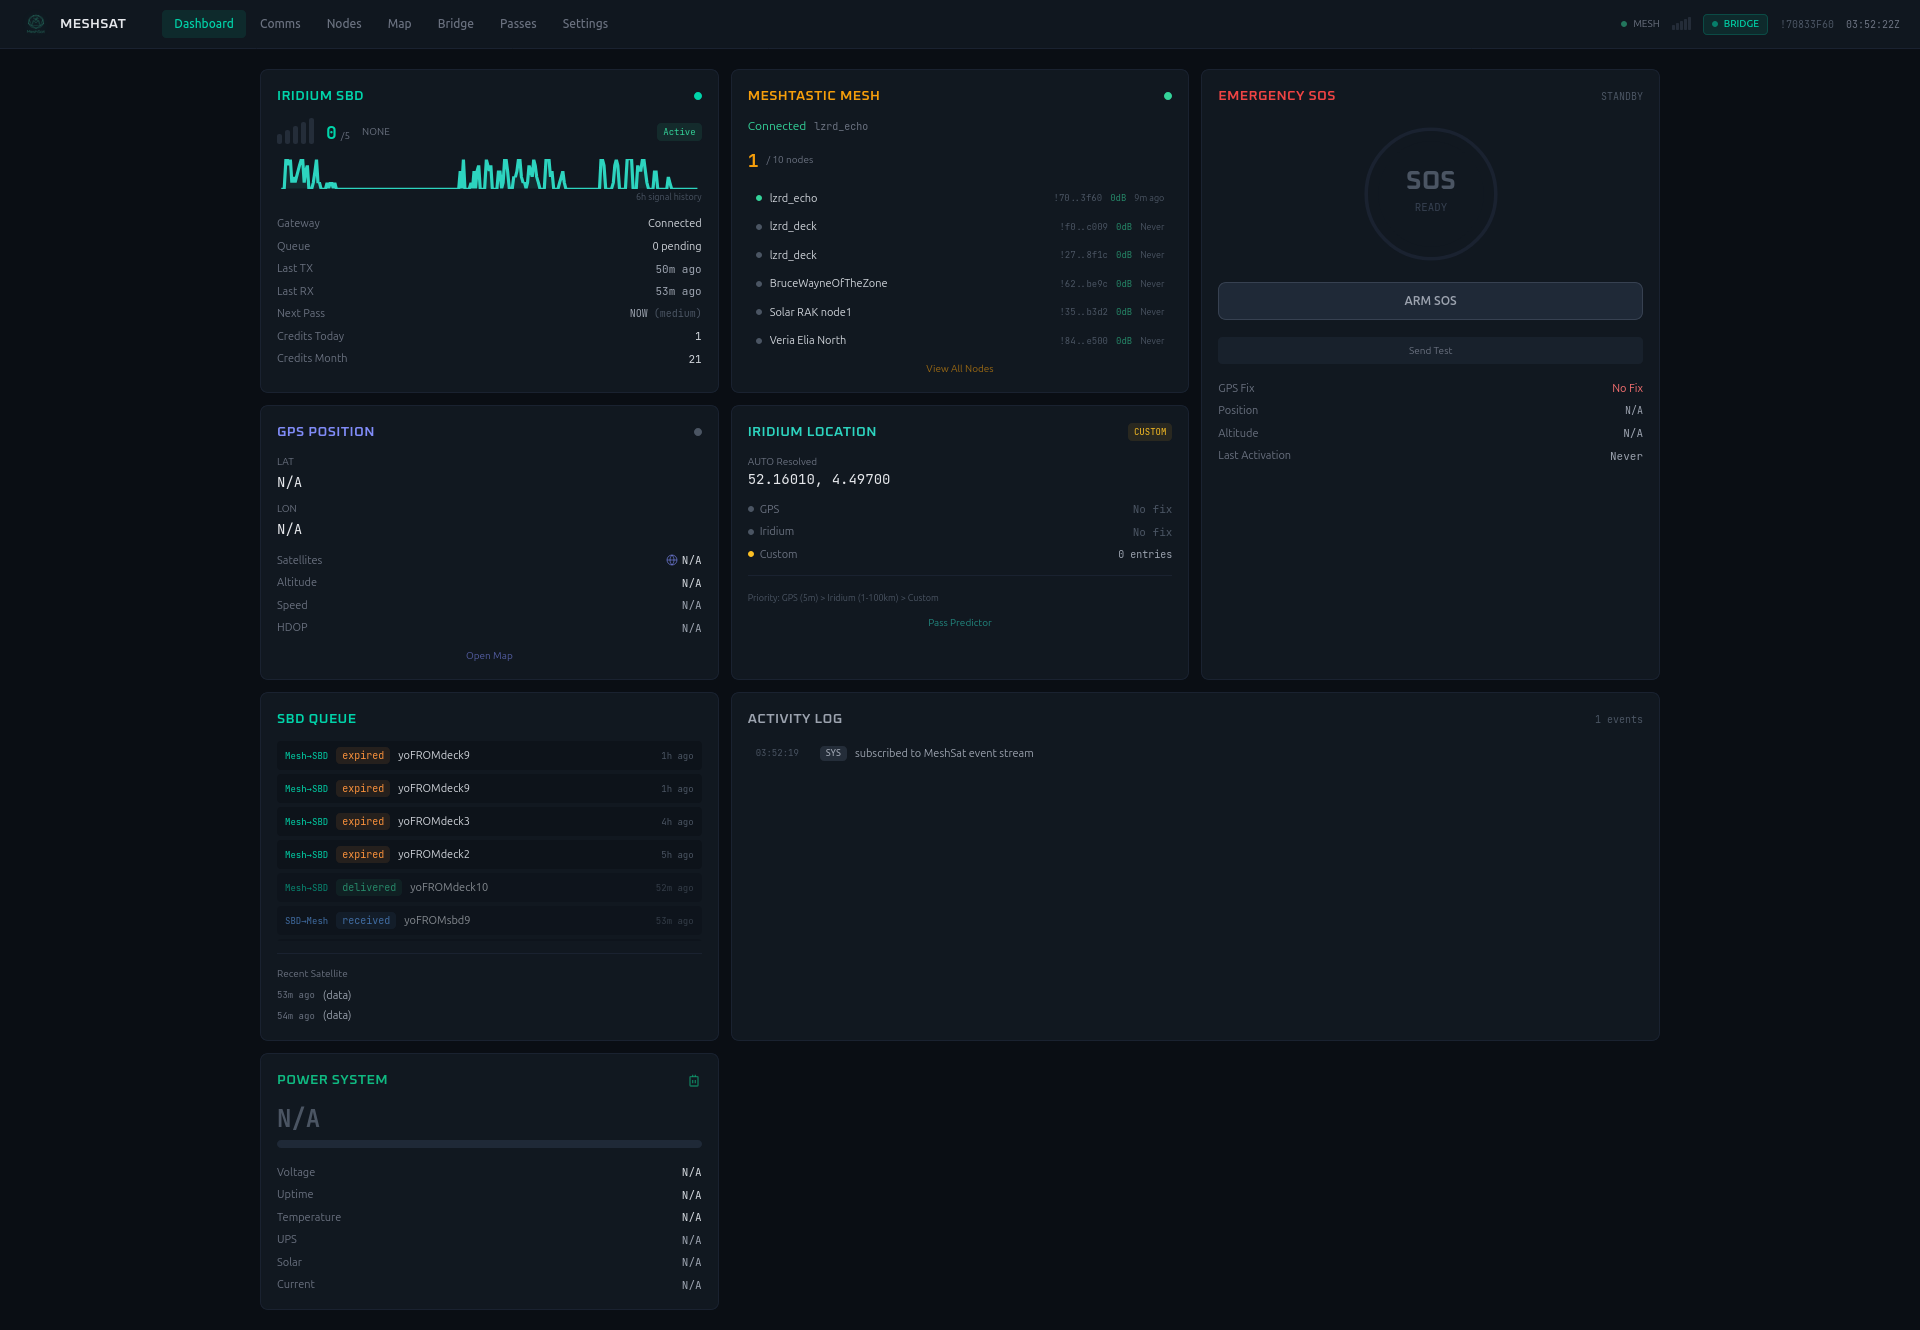
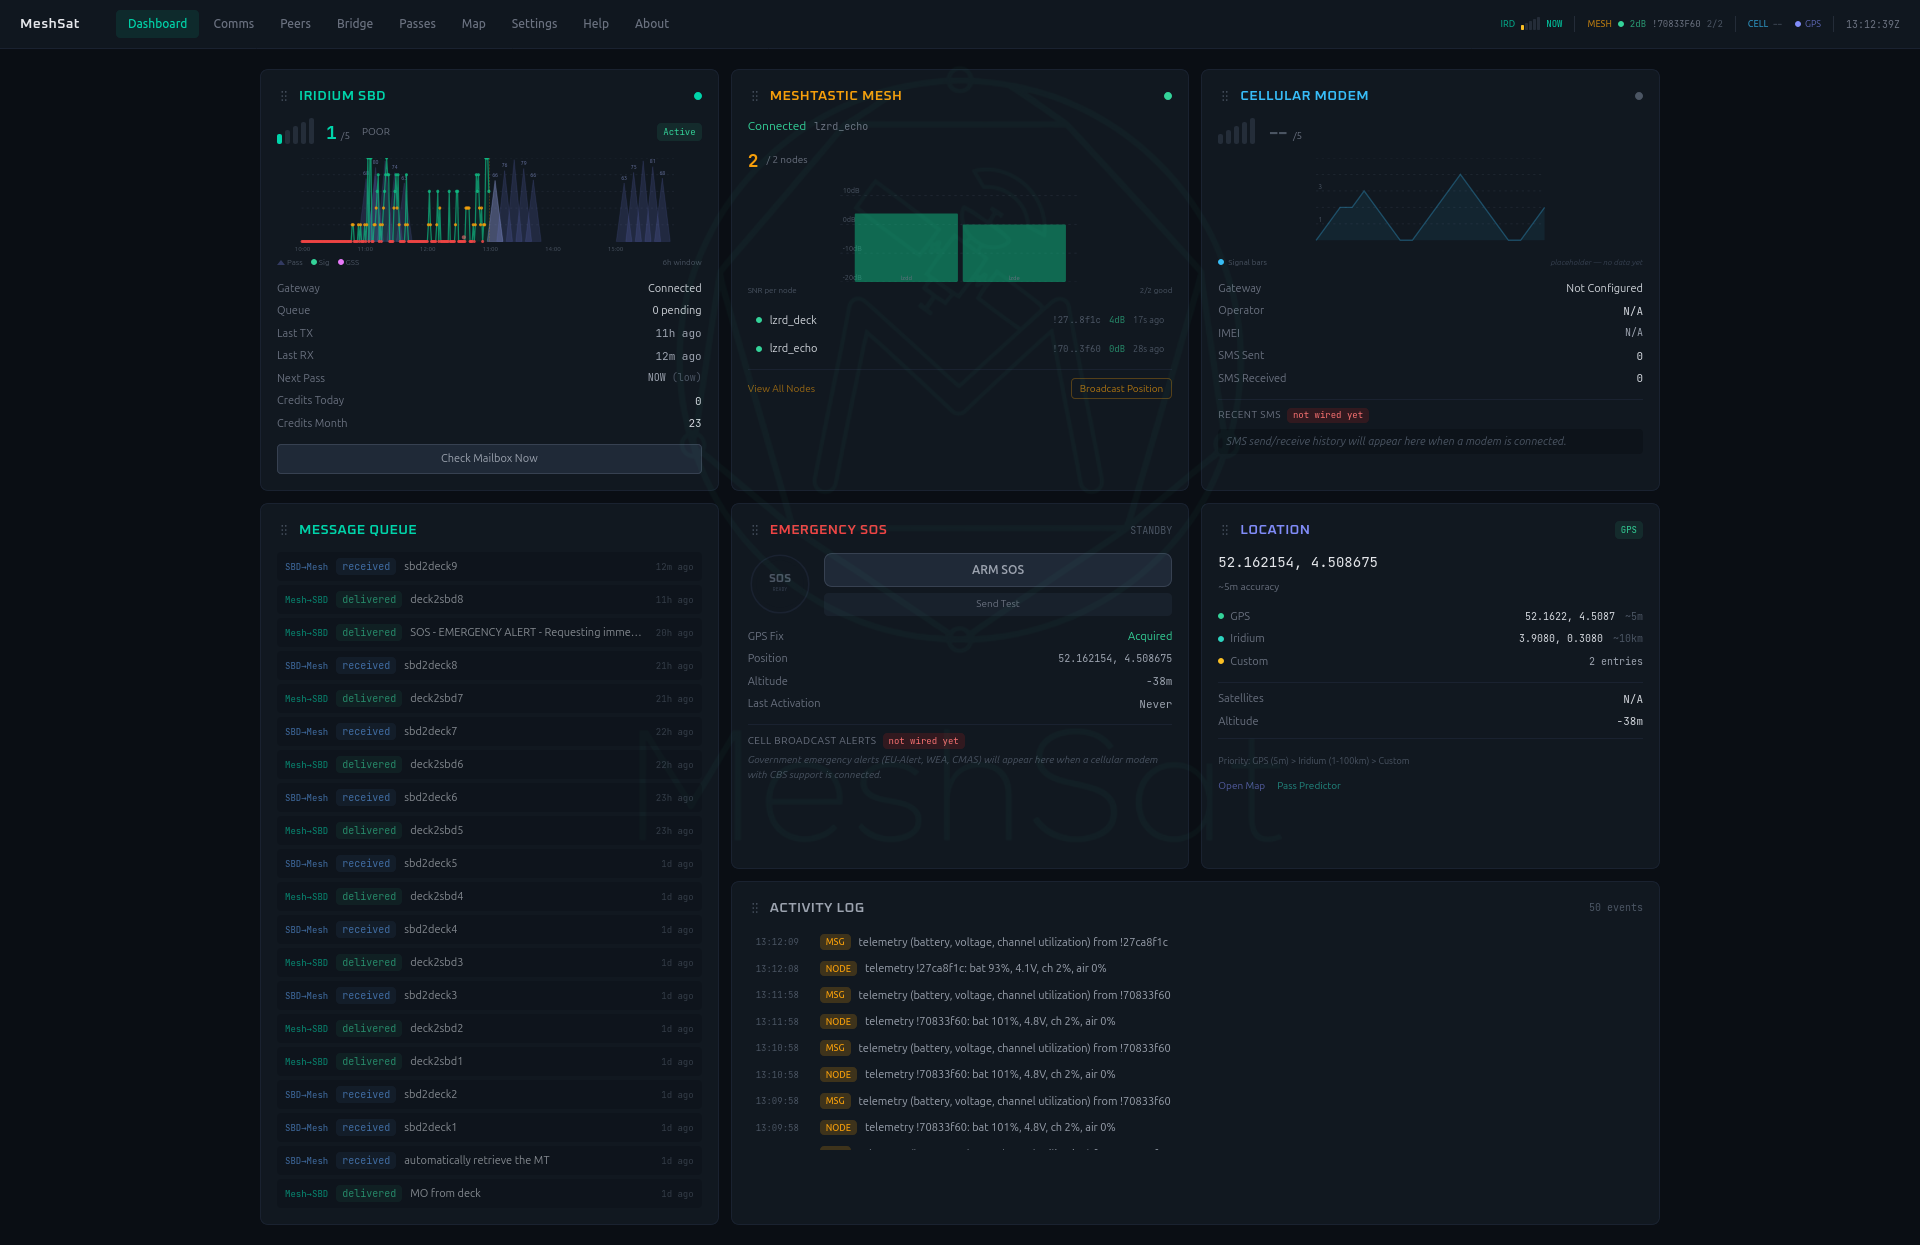
docs: rewrite README + update dashboard screenshot [CUBEOS-35]
Full README rewrite reflecting current architecture: badges, deployment
modes table, expanded hardware support matrix, all channels (Iridium,
Astrocast, cellular, MQTT, webhook), updated API table (130+ endpoints),
N-channel architecture diagram, configuration additions, roadmap
(v0.1.x/v0.2.0/v0.3.0), and community section. Corrected license
reference to GPLv3. Replaced dashboard screenshot with v0.2.0 capture.

diff --git a/README.md b/README.md
@@ -1,8 +1,13 @@
 # MeshSat
 
-A gateway that bridges Meshtastic mesh radios and Iridium SBD satellite modems. Send messages between off-grid mesh networks and global satellite coverage from a single box.
+[![Pipeline](https://gitlab.nuclearlighters.net/products/cubeos/meshsat/badges/main/pipeline.svg)](https://gitlab.nuclearlighters.net/products/cubeos/meshsat/-/pipelines)
+![Go 1.24+](https://img.shields.io/badge/go-1.24+-blue)
+[![License: GPL v3](https://img.shields.io/badge/license-GPLv3-green)](LICENSE)
+![Docker: ghcr.io/cubeos-app/meshsat](https://img.shields.io/badge/docker-ghcr.io%2Fcubeos--app%2Fmeshsat-blue)
 
-MeshSat runs as a standalone Docker container on any Linux machine with USB-connected devices. No cloud dependencies, no subscriptions beyond your Iridium SBD plan.
+MeshSat bridges Meshtastic mesh networks to multiple satellite and data channels from a single gateway. Iridium SBD, Astrocast LEO, cellular SMS, MQTT, and webhooks are all available as routing destinations. The bridge rules engine routes messages between any source and any destination without requiring code changes.
+
+MeshSat runs as a standalone Docker container on any Linux machine with USB-connected devices. No cloud dependencies, no subscriptions beyond your satellite or cellular plan.
 
 ## Dashboard
 
@@ -11,18 +16,31 @@ MeshSat runs as a standalone Docker container on any Linux machine with USB-conn
 SBD message queue, and GPS/satellite positioning*
 
 ![MeshSat Pass Predictor](docs/images/meshsat_passes.png)
-*Iridium satellite pass predictor with signal correlation —
+*Satellite pass predictor with signal correlation --
 optimizes transmission timing in obstructed environments*
 
 ## What It Does
 
-- Bridges Meshtastic mesh radio and Iridium satellite into a single message bus
-- Routes messages between devices using configurable bridge rules (mesh-to-satellite, satellite-to-mesh, or both)
+- Bridges Meshtastic mesh radio to multiple satellite and data channels via configurable bridge rules
+- Routes messages using a rules engine that supports any-to-any source/destination combinations
 - Auto-detects USB devices on startup (no manual port configuration needed)
 - Stores all messages, telemetry, GPS positions, and signal data in a local SQLite database
 - Provides a built-in web dashboard for monitoring, sending messages, and managing devices
-- Exposes a REST API for integration with other systems
-- Runs on ARM64 (Raspberry Pi, Pine64) and x86_64 (Intel NUC, any PC)
+- Predicts satellite passes using SGP4/TLE propagation and schedules transmissions around optimal windows
+- Manages a delivery queue with channel-specific retry and backoff (ISU-aware for Iridium)
+- Exposes a REST API with 130+ endpoints for integration with other systems
+- Runs on ARM64 (Raspberry Pi, BPI-M4 Zero) and x86_64 (Intel NUC, any PC)
+
+## Deployment Modes
+
+| | Standalone mode | CubeOS mode |
+|---|---|---|
+| Set via | `MESHSAT_MODE=direct` | `MESHSAT_MODE=cubeos` (default) |
+| Serial access | Direct to /dev/ttyACM0, /dev/ttyUSB0 | Via HAL REST API |
+| Deploy with | `docker-compose.standalone.yml` | CubeOS orchestrator |
+| Who it's for | Any Linux machine | CubeOS installations |
+
+This README covers standalone mode. For CubeOS mode, see [CubeOS docs](https://cubeos.app).
 
 ## Hardware
 
@@ -30,19 +48,21 @@ optimizes transmission timing in obstructed environments*
 *Lilygo T-Echo (Meshtastic) connected to the MeshSat host with USB GPS dongle*
 
 ![MeshSat Lab - RockBLOCK 9603 satellite modem](docs/images/meshsat_lab_02.jpg)
-*RockBLOCK 9603 Iridium modem with patch antenna — needs sky view for satellite access*
+*RockBLOCK 9603 Iridium modem with patch antenna -- needs sky view for satellite access*
 
-### Tested Devices
+### Supported Devices
 
-The following hardware has been verified end-to-end (satellite to mesh and back):
-
-| Device | Role | Interface | Notes |
-|--------|------|-----------|-------|
-| Lilygo T-Echo (nRF52840) | Meshtastic radio | `/dev/ttyACM0` | 915 MHz, USB-C |
-| Iridium 9600 SBD Transceiver | Satellite modem | `/dev/ttyUSB0` | RS-232 via USB adapter, 19200 baud |
-| Raspberry Pi 5 | Host | — | ARM64, 4 GB RAM, Debian Bookworm |
-
-Other Meshtastic devices should work out of the box. MeshSat recognizes the standard Meshtastic USB vendor/product IDs (Espressif, CH340, CP2102, Nordic, Adafruit). If your device is not detected, you can pin the port manually with `MESHSAT_MESHTASTIC_PORT`.
+| Category | Device | Status | Notes |
+|----------|--------|--------|-------|
+| Meshtastic | Lilygo T-Echo (nRF52840) | Tested | 915 MHz, USB-C, end-to-end verified |
+| Meshtastic | Espressif / CH340 / CP2102 / Nordic devices | Should work | Auto-detected via USB VID:PID |
+| Satellite | RockBLOCK 9603 (Iridium 9603N) | Tested | RS-232 via USB adapter, 19200 baud |
+| Satellite | Astrocast Astronode S | In Progress | Code complete, awaiting hardware for testing |
+| Cellular | SIM7600G-H | In Progress | AT command driver complete, signal testing pending |
+| Host | Raspberry Pi 5 | Tested | ARM64, 4 GB RAM, Debian Bookworm |
+| Host | Raspberry Pi 4 | Should work | Same platform as Pi 5 |
+| Host | BPI-M4 Zero | Planned | Armbian base, pending hardware verification |
+| Host | Any x86_64 / ARM64 Linux | Should work | Docker + USB serial required |
 
 ## Quick Start
 
@@ -151,26 +171,26 @@ INF server started port=6050
 
 Navigate to `http://<your-ip>:6050` in any browser. The dashboard shows:
 
-- **Messages** — live message feed from all connected devices
-- **Nodes** — mesh network nodes with signal quality and last-heard times
-- **Map** — node positions on a Leaflet map (if GPS data is available)
-- **Telemetry** — battery voltage, temperature, and other device metrics
-- **Config** — radio settings, gateway configuration, and bridge rules
+- **Messages** -- live message feed from all connected devices
+- **Nodes** -- mesh network nodes with signal quality and last-heard times
+- **Map** -- node positions on a Leaflet map (if GPS data is available)
+- **Telemetry** -- battery voltage, temperature, and other device metrics
+- **Config** -- radio settings, gateway configuration, and bridge rules
 
 ### Step 4: Set up bridge rules
 
-To route messages between Meshtastic and Iridium, create bridge rules in the Config tab. A bridge rule specifies:
+To route messages between channels, create bridge rules in the Config tab. Rules are direction-aware (outbound mesh-to-satellite, inbound satellite-to-mesh, or both) and the rules engine is the single authority for all forwarding decisions. A bridge rule specifies:
 
-- **Source gateway** — where messages come from (e.g., `meshtastic`)
-- **Destination gateway** — where messages go (e.g., `iridium`)
-- **Direction** — outbound (mesh to satellite), inbound (satellite to mesh), or both
-- **Filter** — optional: match specific channels, node IDs, or message types
+- **Source gateway** -- where messages come from (e.g., `meshtastic`)
+- **Destination gateway** -- where messages go (e.g., `iridium`)
+- **Direction** -- outbound, inbound, or both
+- **Filter** -- optional: match specific channels, node IDs, or message types
 
 Example: to forward all text messages from a specific Meshtastic node to Iridium SBD, create an outbound rule with the source node filter and destination set to your Iridium gateway.
 
 ### Step 5: Verify end-to-end
 
-Send a test message from your Meshtastic device. If bridge rules are configured, it should appear in the RockBLOCK portal (or wherever your SBD messages are delivered). Send a message from the RockBLOCK portal back — it should arrive on your Meshtastic device.
+Send a test message from your Meshtastic device. If bridge rules are configured, it should appear in the RockBLOCK portal (or wherever your SBD messages are delivered). Send a message from the RockBLOCK portal back -- it should arrive on your Meshtastic device.
 
 ## Configuration
 
@@ -180,10 +200,14 @@ All configuration is via environment variables:
 |----------|---------|-------------|
 | `MESHSAT_MODE` | `cubeos` | Set to `direct` for standalone USB access |
 | `MESHSAT_PORT` | `6050` | HTTP port for dashboard and API |
-| `MESHSAT_DB_PATH` | `/cubeos/data/meshsat.db` | SQLite database file path |
+| `MESHSAT_DB_PATH` | `/data/meshsat.db` | SQLite database file path |
 | `MESHSAT_MESHTASTIC_PORT` | `auto` | Serial port for Meshtastic (`auto` = scan USB) |
 | `MESHSAT_IRIDIUM_PORT` | `auto` | Serial port for Iridium (`auto` = scan USB) |
+| `MESHSAT_CELLULAR_PORT` | `auto` | Serial port for cellular modem (`auto` = scan USB) |
 | `MESHSAT_RETENTION_DAYS` | `30` | Days to keep historical data |
+| `MESHSAT_PAID_RATE_LIMIT` | `60` | Minimum seconds between paid gateway sends |
+| `MESHSAT_WEB_DIR` | *(empty)* | Override embedded SPA path (development only) |
+| `HAL_URL` | `http://10.42.24.1:6005` | HAL endpoint (CubeOS mode only) |
 
 ### Running with only one device
 
@@ -204,7 +228,7 @@ MeshSat needs raw access to USB serial devices (`/dev/ttyACM*`, `/dev/ttyUSB*`) 
 
 ## API
 
-MeshSat exposes a REST API on the same port as the dashboard:
+MeshSat exposes a REST API on the same port as the dashboard. The major endpoint groups are listed below. Full API details are available at `http://<your-ip>:6050/api/` when MeshSat is running.
 
 | Method | Path | Description |
 |--------|------|-------------|
@@ -212,20 +236,49 @@ MeshSat exposes a REST API on the same port as the dashboard:
 | GET | `/api/messages` | Paginated message history |
 | GET | `/api/messages/stats` | Message counts by transport and type |
 | POST | `/api/messages/send` | Send a text message to the mesh |
+| DELETE | `/api/messages` | Purge all messages |
 | GET | `/api/telemetry` | Time-series device telemetry |
 | GET | `/api/positions` | GPS position history |
 | GET | `/api/nodes` | Mesh nodes with signal quality |
+| DELETE | `/api/nodes/{num}` | Remove a node |
 | GET | `/api/status` | Connection status for all transports |
 | GET | `/api/events` | Server-Sent Events stream |
 | GET | `/api/gateways` | Gateway status and configuration |
+| GET/PUT/DELETE | `/api/gateways/{type}` | Gateway config CRUD |
+| POST | `/api/gateways/{type}/start` | Start a gateway |
+| POST | `/api/gateways/{type}/stop` | Stop a gateway |
+| POST | `/api/gateways/{type}/test` | Test a gateway |
 | GET | `/api/iridium/signal` | Current Iridium signal strength |
-| GET | `/api/iridium/scheduler` | Pass scheduler status |
+| GET | `/api/iridium/signal/history` | Signal strength history |
+| GET | `/api/iridium/passes` | Predicted satellite passes (SGP4/TLE) |
+| POST | `/api/iridium/passes/refresh` | Refresh TLE data |
+| GET | `/api/iridium/scheduler` | Pass-aware scheduler status |
+| POST | `/api/iridium/mailbox/check` | Manual mailbox check |
+| GET | `/api/iridium/credits` | Credit balance |
+| GET | `/api/iridium/queue` | Queued SBD messages |
+| GET | `/api/astrocast/passes` | Astrocast LEO pass predictions |
+| GET | `/api/cellular/signal` | Cellular signal strength |
+| GET | `/api/cellular/status` | Cellular modem status |
+| POST | `/api/cellular/sms/send` | Send SMS message |
+| POST | `/api/webhooks/inbound` | Receive inbound webhook |
+| GET | `/api/webhooks/log` | Webhook delivery log |
+| GET | `/api/deliveries` | Delivery ledger (all channels) |
+| GET | `/api/deliveries/stats` | Delivery statistics |
+| GET | `/api/rules` | List forwarding rules |
+| POST | `/api/rules` | Create forwarding rule |
+| GET/PUT/DELETE | `/api/rules/{id}` | Rule CRUD |
+| GET | `/api/transport/channels` | Transport channel registry |
 | POST | `/api/admin/reboot` | Reboot a remote mesh node |
 | POST | `/api/admin/traceroute` | Traceroute to a mesh node |
 | POST | `/api/config/radio` | Update radio configuration |
 | POST | `/api/config/module` | Update module configuration |
+| GET | `/api/neighbors` | Neighbor info from mesh |
+| POST | `/api/sos/activate` | Activate SOS mode |
+| GET | `/api/sos/status` | SOS status |
+| GET | `/api/presets` | List preset messages |
+| POST | `/api/presets/{id}/send` | Send a preset message |
 
-Full API details are available at `http://<your-ip>:6050/api/` when MeshSat is running.
+Additional endpoints exist for contacts, canned messages, waypoints, position sharing, range tests, store-and-forward, geolocation, DynDNS, and cellular data management. The full list totals 130+ endpoints.
 
 ## CubeOS Integration
 
@@ -234,25 +287,30 @@ MeshSat also runs as a managed service inside [CubeOS](https://cubeos.app), wher
 ## Architecture
 
 ```
-USB Devices          MeshSat Container              Clients
------------     ---------------------------     ----------------
-                │                           │
-/dev/ttyACM0 ──►│  DirectMeshTransport      │
-  (Meshtastic)  │    ├── Serial framing     │──► Web Dashboard
-                │    ├── Protobuf codec     │    (port 6050)
-                │    └── Config handshake   │
-                │              │            │──► REST API
-                │         Processor +       │    (port 6050)
-                │         Rule Engine       │
-                │              │            │──► SSE Events
-/dev/ttyUSB0 ──►│  DirectSatTransport       │    (port 6050)
-  (Iridium)     │    ├── AT commands        │
-                │    ├── SBD binary codec   │
-                │    └── Signal polling     │
-                │                           │
-                │  SQLite (/data/meshsat.db)│
-                ---------------------------
+USB Devices             MeshSat Container                   Clients
+-----------      --------------------------------      ----------------
+                 |                                |
+/dev/ttyACM0 -->-|  DirectMeshTransport            |
+  (Meshtastic)   |    Serial framing + Protobuf    |-->  Web Dashboard
+                 |                                |     (Vue SPA, port 6050)
+                 |         Processor               |
+                 |            |                    |-->  REST API
+                 |       Rules Engine              |     (130+ endpoints)
+                 |       (any-to-any)              |
+                 |            |                    |-->  SSE Events
+                 |      GatewayManager             |     (real-time updates)
+                 |       |    |    |    |          |
+/dev/ttyUSB0 -->-|  Iridium  MQTT  Cell  Webhook  |
+  (Iridium)      |  Gateway  GW    GW    GW       |
+                 |                                |
+/dev/ttyUSB1 -->-|  Astrocast    Delivery Ledger  |
+  (Cellular)     |  Gateway     (SQLite tracking) |
+                 |                                |
+                 |  SQLite DB (/data/meshsat.db)   |
+                 --------------------------------
 ```
+
+Each gateway implements a common interface and is managed by the GatewayManager. Adding a new channel requires implementing the Gateway interface and registering it -- no switch statements to update. The delivery ledger tracks per-message, per-channel lifecycle state with channel-specific retry and backoff.
 
 ## Troubleshooting
 
@@ -270,12 +328,28 @@ The config handshake takes 5-10 seconds. Wait for the "config complete" log line
 
 **Iridium signal shows 0 bars**
 
-Check antenna connections. The Iridium 9600 requires a clear view of the sky and a properly connected antenna. If using an external antenna with a u.FL pigtail, verify the connector is seated firmly.
+Check antenna connections. The RockBLOCK 9603 requires a clear view of the sky and a properly connected antenna. If using an external antenna with a u.FL pigtail, verify the connector is seated firmly.
 
 **SBDIX failures or timeouts**
 
 Iridium SBD sessions (SBDIX) take 10-60 seconds and require signal strength of at least 2 bars. MeshSat rate-limits SBDIX to one session per 10 seconds. If messages are queuing in the dead letter queue, check signal strength and antenna placement.
 
+## Roadmap
+
+**v0.1.x (current)** -- Iridium SBD + Meshtastic bridge with configurable rules engine, MQTT gateway, pass-aware scheduler with SGP4/TLE prediction, dead letter queue with ISU-aware backoff, device management (config, neighbor info, range test), SOS mode, and a full Vue.js SPA dashboard with REST API.
+
+**v0.2.0 (in progress)** -- Any-to-any routing fabric. Channel registry with self-describing adapters, unified rules engine supporting all 30 directional routes between 6 channels, structured dispatcher with per-channel delivery workers, Astrocast and cellular gateway integration, SMAZ2 compression for constrained satellite payloads, and a redesigned frontend with channel-aware rule editing and unified delivery tracking.
+
+**v0.3.0 (planned)** -- Semantic compression using rate-adaptive multi-stage vector quantization (MSVQ-SC) for maximizing satellite payload efficiency. Reticulum-inspired routing with cryptographic announce broadcasting, path discovery, and link establishment across the channel fabric.
+
+## Community
+
+- GitHub: [github.com/cubeos-app/meshsat](https://github.com/cubeos-app/meshsat)
+- Issues: Use GitHub Issues for bugs and feature requests
+- Discord: Coming soon
+
+PRs welcome. See open issues for where help is needed.
+
 ## License
 
-Copyright 2026 Nuclear Lighters Inc. Licensed under the [Apache License 2.0](LICENSE).
+Copyright 2026 Nuclear Lighters Inc. Licensed under the [GNU General Public License v3.0](LICENSE).
